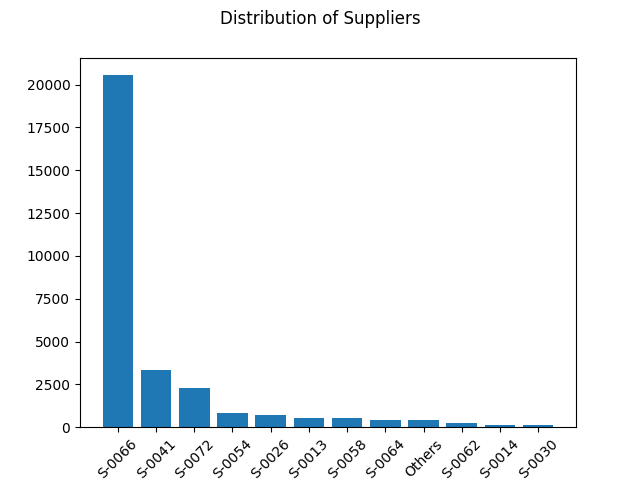
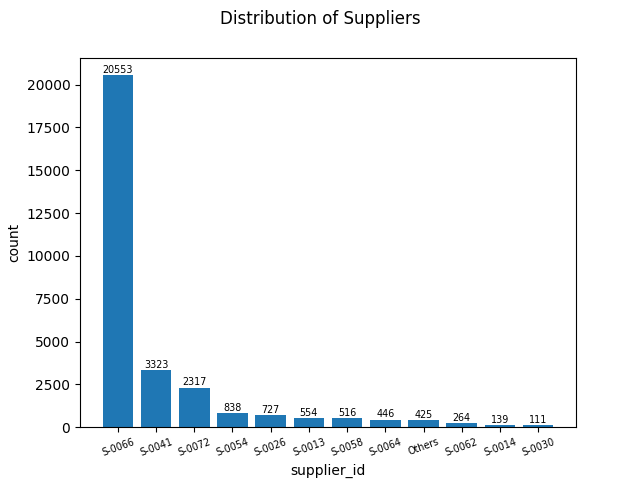
better plot annotations

diff --git a/visualize.py b/visualize.py
@@ -37,10 +37,18 @@ def visualize_suppliers():
     # sort and plot
     values = sorted(new_supp_dist.values(), reverse=True)
     keys = sorted(new_supp_dist, key=new_supp_dist.get, reverse=True)
-    plt.figure()
+    _, axe = plt.subplots()
     plt.bar(range(len(values)), values, align='center')
-    plt.xticks(range(len(values)), keys, rotation=45)
+
+    # labels
+    plt.xticks(range(len(values)), keys, rotation=20, fontsize='x-small')
+    plt.xlabel('supplier_id')
+    plt.ylabel('count')
     plt.suptitle('Distribution of Suppliers')
+    bars = axe.patches
+    for bar_, label in zip(bars, values):
+        axe.text(bar_.get_x() + bar_.get_width() / 2, bar_.get_height() +
+                 5, label, ha='center', va='bottom', fontsize='x-small')
     plt.savefig(os.path.join(VIZ_DIR, 'visualize_suppliers.png'))
 
 
@@ -57,10 +65,18 @@ def visualize_specs():
     # sort and plot
     keys = sorted(spec_dist)
     values = [spec_dist[key] for key in keys]
-    plt.figure()
+    _, axe = plt.subplots()
     plt.bar(range(len(values)), values, align='center')
+
+    # labels
     plt.xticks(range(len(values)), keys)
+    plt.xlabel('number of specs')
+    plt.ylabel('count')
     plt.suptitle('Distribution of Specs')
+    bars = axe.patches
+    for bar_, label in zip(bars, values):
+        axe.text(bar_.get_x() + bar_.get_width() / 2, bar_.get_height() +
+                 5, label, ha='center', va='bottom', fontsize='x-small')
     plt.savefig(os.path.join(VIZ_DIR, 'visualize_specs.png'))
 
 
